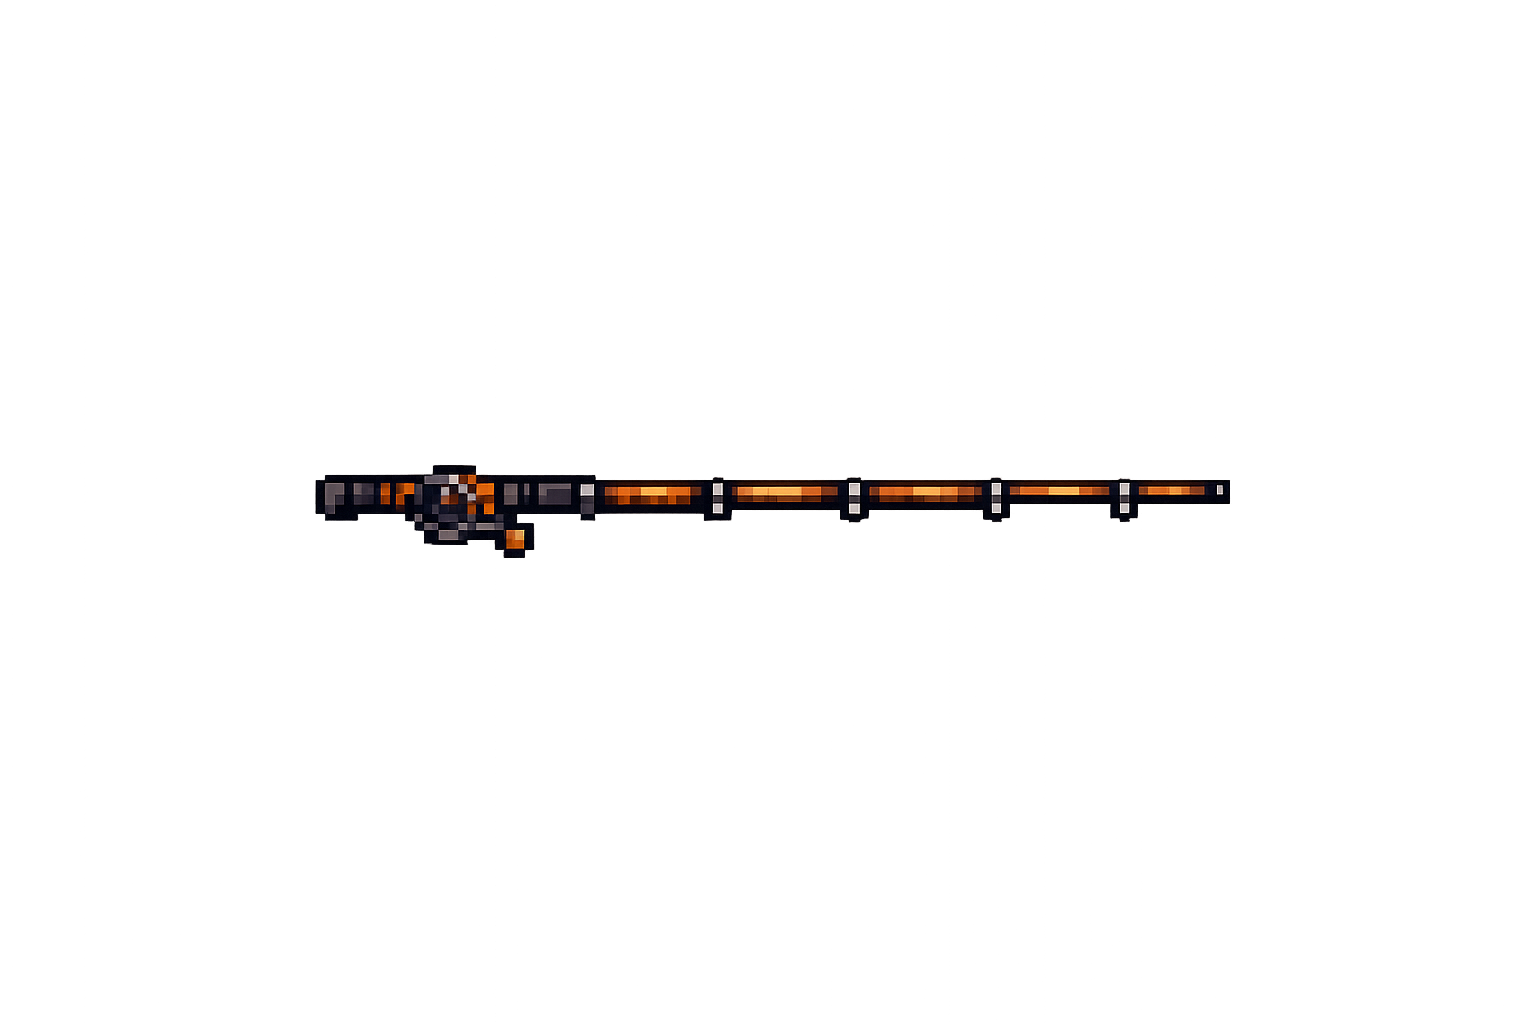
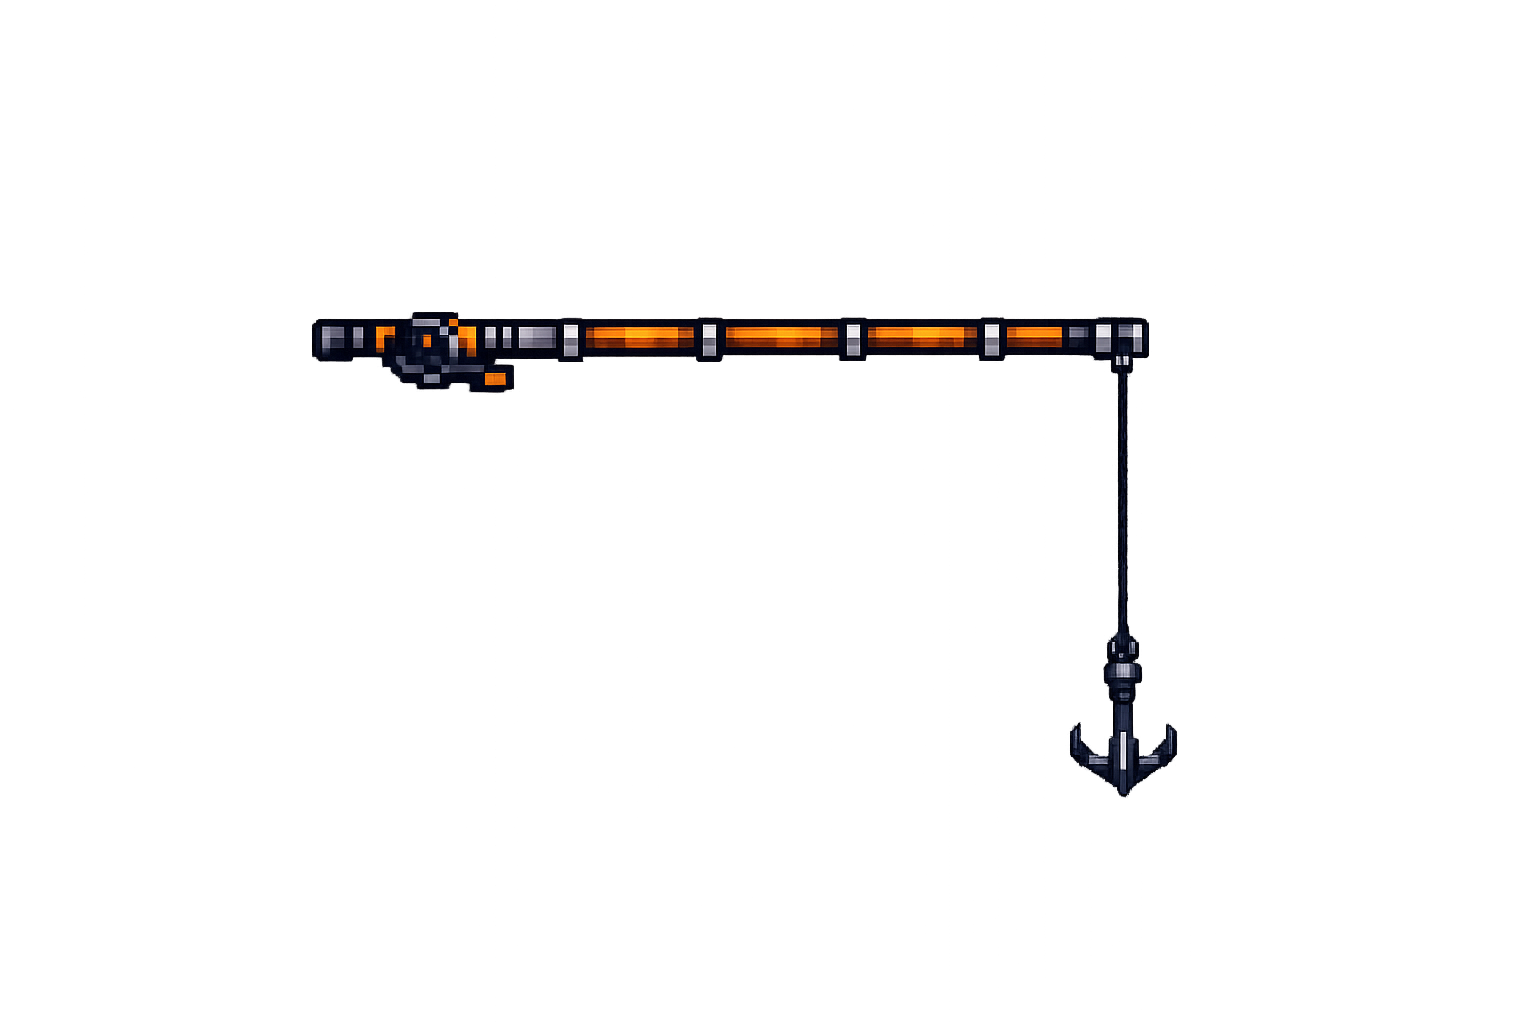
Hook

Changed region(s): [[0.1875, 0.2812, 0.8125, 0.7812]]

diff --git a/src/js/scenes/levelone.js b/src/js/scenes/levelone.js
@@ -1,4 +1,4 @@
-import { Actor, Color, Delay, FadeInOut, Font, FontUnit, Keys, Label, Scene, Vector } from "excalibur"
+import { Actor, Color, FadeInOut, Font, FontUnit, Keys, Label, Scene, Vector } from "excalibur"
 import { Resources } from "../resources.js"
 import { Boat } from "../actors/boat.js"
 import { Rod } from "../actors/rod.js"
@@ -6,7 +6,6 @@ import { Rod } from "../actors/rod.js"
 export class LevelOne extends Scene {
     onInitialize(engine) {
         const background = new Actor({
-            // Background position
             x: engine.halfDrawWidth,
             y: engine.halfDrawHeight,
             width: engine.drawWidth,
@@ -17,21 +16,32 @@ export class LevelOne extends Scene {
         this.add(background)
         background.scale = new Vector(0.85, 0.8)
 
-
-
-        let b = new Boat()
+        const b = new Boat()
         this.add(b)
 
-        let r = new Rod()
+        const r = new Rod()
         this.add(r)
 
+        //instruction
+        const instruction = new Label({
+            text: "Press arrow down to cast rod",
+            pos: new Vector(engine.halfDrawWidth, engine.halfDrawHeight),
+            font: new Font({
+                size: 64,
+                unit: FontUnit.Px,
+                color: Color.fromHex('#FFF8E1'),
+                strokeColor: Color.fromHex('#4A2C2A'),
+                lineWidth: 3,
+            })
+        })
+        instruction.anchor = new Vector(0.5, 0.5)
+        this.add(instruction)
     }
 
-    // Go to level 2
+    //cast rod
     onPreUpdate(engine) {
-        if (engine.input.keyboard.wasPressed(Keys.Space)) {
+        if (engine.input.keyboard.wasPressed(Keys.Down)) {
             engine.goToScene("leveltwo", {
-                // transition
                 sourceOut: new FadeInOut({ duration: 600, direction: 'out' }),
                 destinationIn: new FadeInOut({ duration: 600, direction: 'in' })
             })

diff --git a/src/js/actors/hook.js b/src/js/actors/hook.js
@@ -1,0 +1,36 @@
+import { Actor, Engine, Scene, Vector, DisplayMode, Keys } from "excalibur"
+import { Resources, ResourceLoader } from '../resources.js'
+
+export class Hook extends Actor {
+
+    constructor() {
+        super({
+            width: Resources.Hook.width,
+            height: Resources.Hook.height
+        })
+    }
+    onInitialize(engine) {
+        this.graphics.use(Resources.Hook.toSprite())
+        this.pos = new Vector(640, -200)
+        this.scale = new Vector(0.5, 0.5)
+        this.vel = new Vector(0, 100)
+    }
+
+    onPreUpdate(engine) {
+        if (engine.input.keyboard.wasPressed(Keys.Down)) {
+            if (this.vel.y > 0) {
+                this.vel = new Vector(0, -300)
+            }
+        }
+        if (this.pos.y >= 330 && this.vel.y > 0) {
+            this.vel = new Vector(0, -300)
+        }
+        if (engine.input.keyboard.isHeld(Keys.Right)) {
+            this.vel = new Vector(200, this.vel.y)
+        } else if (engine.input.keyboard.isHeld(Keys.Left)) {
+            this.vel = new Vector(-200, this.vel.y)
+        } else {
+            this.vel = new Vector(0, this.vel.y)
+        }
+    }
+}

diff --git a/src/js/scenes/leveltwo.js b/src/js/scenes/leveltwo.js
@@ -2,6 +2,7 @@ import { Actor, Color, FadeInOut, Font, FontUnit, Keys, Label, Scene, Vector } f
 import { Resources } from "../resources.js"
 import { Boat } from "../actors/boat.js"
 import { Rod } from "../actors/rod.js"
+import { Hook } from "../actors/hook.js"
 
 export class LevelTwo extends Scene {
     onInitialize(engine) {
@@ -16,6 +17,9 @@ export class LevelTwo extends Scene {
         background2.graphics.use(Resources.Background2.toSprite())
         this.add(background2)
         background2.scale = new Vector(1.3, 1.5)
+
+        const h = new Hook()
+        this.add(h)
 
     }
 

diff --git a/src/js/actors/rod.js b/src/js/actors/rod.js
@@ -11,16 +11,14 @@ export class Rod extends Actor {
     }
     onInitialize(engine) {
         this.graphics.use(Resources.Rod.toSprite())
-        this.pos = new Vector(790, 560)
+        this.pos = new Vector(790, 605)
         this.scale = new Vector(0.3, 0.3)
 
         // Move up in a zig-zag by repeated moveBy's
         this.actions.repeat((repeatCtx) => {
             repeatCtx.moveBy(0, 10, 10)
             repeatCtx.moveBy(0, -10, 10)
-        }, 5)
+        },)
     }
-
-
 
 }

diff --git a/src/js/resources.js b/src/js/resources.js
@@ -7,7 +7,8 @@ const Resources = {
     Background: new ImageSource('images/Achtergrond lava.png'),
     Boat: new ImageSource('images/boat.png'),
     Rod: new ImageSource('images/rod.png'),
-    Background2: new ImageSource('images/background2.avif')
+    Background2: new ImageSource('images/background2.avif'),
+    Hook: new ImageSource('images/hook.png')
 }
 
 

diff --git a/src/js/actors/boat.js b/src/js/actors/boat.js
@@ -18,7 +18,7 @@ export class Boat extends Actor {
         this.actions.repeat((repeatCtx) => {
             repeatCtx.moveBy(0, 10, 10)
             repeatCtx.moveBy(0, -10, 10)
-        }, 5)
+        },)
     }
 
 

diff --git a/src/js/scenes/start.js b/src/js/scenes/start.js
@@ -44,6 +44,7 @@ export class StartScene extends Scene {
         })
         instruction.anchor = new Vector(0.5, 0.5)
         this.add(instruction)
+
     }
 
 
